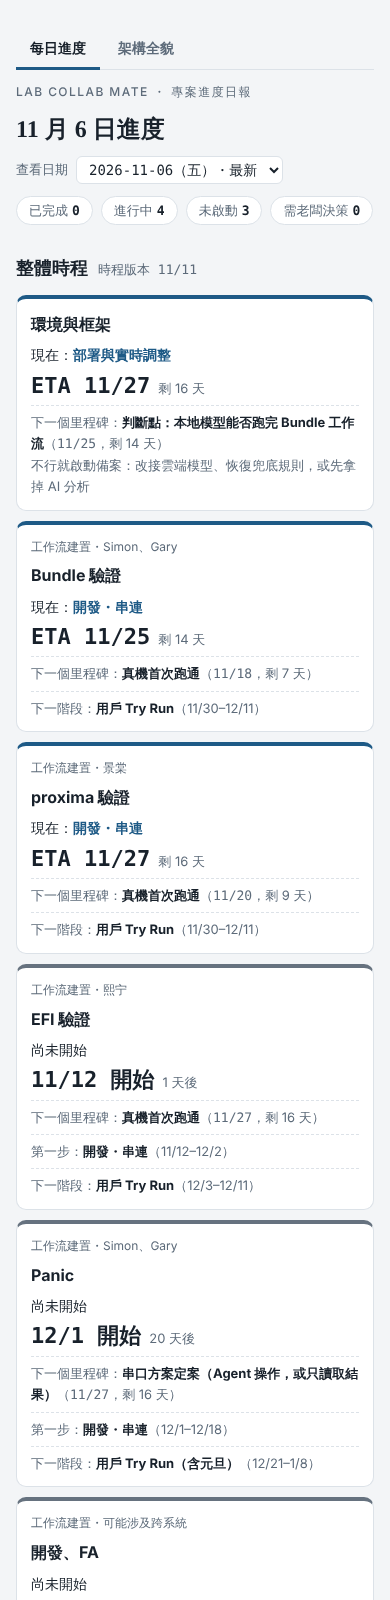
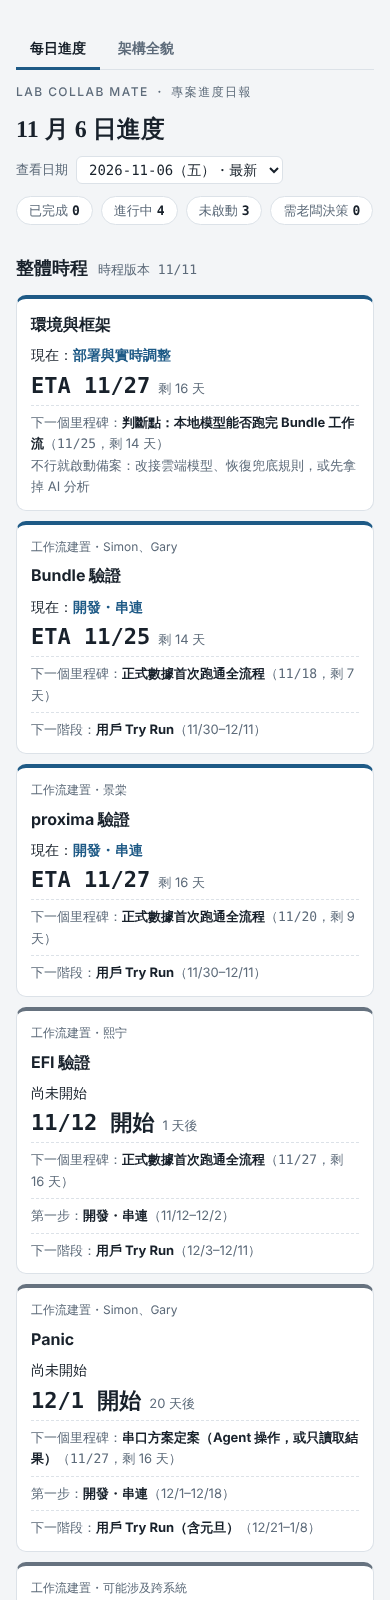
[2026-11-11_dashboard-schedule-and-arch-tab] 里程碑改名為「正式數據首次跑通全流程」
Claude-Session: https://claude.ai/code/session_01HY2PekBDQgaxvznQLxGhAu

Changed region(s): [[0.0615, 0.4062, 0.9538, 1.0], [0.6769, 0.6875, 0.8, 0.7188], [0.6769, 0.5312, 0.7385, 0.5625]]

diff --git a/public/index.html b/public/index.html
@@ -221,7 +221,7 @@ footer{font-size:12px;color:var(--muted);border-top:1px solid var(--line);paddin
     <h2 id="s0">整體時程 <span class="count" id="c0"></span></h2>
     <div class="tracks" id="tracks"></div>
     <p class="tbdline" id="tbdline"></p>
-    <div class="gwrap"><div class="glegend"><span><i style="background:var(--accent)"></i>開發・串連・設計</span><span><i style="background:var(--ok)"></i>用戶 Try Run</span><span><i style="background:var(--idle-soft);border:1px solid var(--idle)"></i>已過</span><span><i style="border:1px dashed var(--idle)"></i>時程待定</span><span><i class="k" style="border-radius:50%;box-shadow:inset 0 0 0 2px var(--fg)"></i>真機首次跑通</span><span><i class="k" style="border-radius:50%;background:var(--fg)"></i>連續 5 次穩定跑通</span><span><i class="k" style="background:var(--warn);transform:rotate(45deg) scale(.85)"></i>判斷點／定案</span><span><i class="k" style="background:var(--ok);transform:rotate(45deg) scale(.85)"></i>正式上線（用戶驗收）</span><span style="color:var(--bad)">｜今天</span></div><div class="gantt" id="gantt"></div></div>
+    <div class="gwrap"><div class="glegend"><span><i style="background:var(--accent)"></i>開發・串連・設計</span><span><i style="background:var(--ok)"></i>用戶 Try Run</span><span><i style="background:var(--idle-soft);border:1px solid var(--idle)"></i>已過</span><span><i style="border:1px dashed var(--idle)"></i>時程待定</span><span><i class="k" style="border-radius:50%;box-shadow:inset 0 0 0 2px var(--fg)"></i>正式數據首次跑通全流程</span><span><i class="k" style="border-radius:50%;background:var(--fg)"></i>連續 5 次穩定跑通</span><span><i class="k" style="background:var(--warn);transform:rotate(45deg) scale(.85)"></i>判斷點／定案</span><span><i class="k" style="background:var(--ok);transform:rotate(45deg) scale(.85)"></i>正式上線（用戶驗收）</span><span style="color:var(--bad)">｜今天</span></div><div class="gantt" id="gantt"></div></div>
   </section>
 
   <section aria-labelledby="s1">
@@ -255,7 +255,7 @@ footer{font-size:12px;color:var(--muted);border-top:1px solid var(--line);paddin
 
 <script>
 /* 整體時程。s／e＝開始／結束日；s:null＝整段待定。row:"one"＝所有步驟畫在同一列，"each"＝每步一列。
-   kind：build＝開發・串連・設計，try＝用戶 Try Run。ms＝里程碑 [日期, 說明, 類型]：first＝真機首次跑通，stable＝連續 5 次穩定跑通，gate＝判斷點／定案，live＝正式上線 */
+   kind：build＝開發・串連・設計，try＝用戶 Try Run。ms＝里程碑 [日期, 說明, 類型]：first＝正式數據首次跑通全流程，stable＝連續 5 次穩定跑通，gate＝判斷點／定案，live＝正式上線 */
 const PLAN = {
   updated:"2026-11-11", from:"2026-10-26", weeks:12,
   rule:"進 Try Run 的標準：真機連續 5 次穩定跑通、失敗時有看得懂的錯誤訊息、最後的 AI 分析結果經工程師確認可用。",
@@ -271,19 +271,19 @@ const PLAN = {
     {name:"Bundle 驗證", label:"Bundle 驗證", sub:"Simon、Gary", group:1, row:"one",
      steps:[{n:"開發・串連", short:"", s:"2026-11-09", e:"2026-11-25", kind:"build"},
             {n:"用戶 Try Run", short:"Try Run", s:"2026-11-30", e:"2026-12-11", kind:"try"}],
-     ms:[["2026-11-18","真機首次跑通","first"],["2026-11-25","連續 5 次穩定跑通","stable"],["2026-12-11","正式上線","live"]]},
+     ms:[["2026-11-18","正式數據首次跑通全流程","first"],["2026-11-25","連續 5 次穩定跑通","stable"],["2026-12-11","正式上線","live"]]},
     {name:"proxima 驗證", label:"proxima 驗證", sub:"景棠", group:1, row:"one",
      steps:[{n:"開發・串連", short:"", s:"2026-11-09", e:"2026-11-27", kind:"build"},
             {n:"用戶 Try Run", short:"Try Run", s:"2026-11-30", e:"2026-12-11", kind:"try"}],
-     ms:[["2026-11-20","真機首次跑通","first"],["2026-11-27","連續 5 次穩定跑通","stable"],["2026-12-11","正式上線","live"]]},
+     ms:[["2026-11-20","正式數據首次跑通全流程","first"],["2026-11-27","連續 5 次穩定跑通","stable"],["2026-12-11","正式上線","live"]]},
     {name:"EFI 驗證", label:"EFI 驗證", sub:"熙宁", group:1, row:"one",
      steps:[{n:"開發・串連", short:"", s:"2026-11-12", e:"2026-12-02", kind:"build"},
             {n:"用戶 Try Run", short:"Try Run", s:"2026-12-03", e:"2026-12-11", kind:"try"}],
-     ms:[["2026-11-27","真機首次跑通","first"],["2026-12-02","連續 5 次穩定跑通","stable"],["2026-12-11","正式上線","live"]]},
+     ms:[["2026-11-27","正式數據首次跑通全流程","first"],["2026-12-02","連續 5 次穩定跑通","stable"],["2026-12-11","正式上線","live"]]},
     {name:"Panic", label:"Panic", sub:"Simon、Gary", group:1, row:"one",
      steps:[{n:"開發・串連", short:"", s:"2026-12-01", e:"2026-12-18", kind:"build"},
             {n:"用戶 Try Run（含元旦）", short:"Try Run", s:"2026-12-21", e:"2027-01-08", kind:"try"}],
-     ms:[["2026-11-27","串口方案定案（Agent 操作，或只讀取結果）","gate"],["2026-12-11","真機首次跑通","first"],["2026-12-18","連續 5 次穩定跑通","stable"],["2027-01-08","正式上線","live"]]},
+     ms:[["2026-11-27","串口方案定案（Agent 操作，或只讀取結果）","gate"],["2026-12-11","正式數據首次跑通全流程","first"],["2026-12-18","連續 5 次穩定跑通","stable"],["2027-01-08","正式上線","live"]]},
     {name:"開發、FA", label:"開發、FA", sub:"可能涉及跨系統", group:1, row:"one",
      steps:[{n:"技術調研（跨哪些系統、連哪種工站）", short:"技術調研", s:"2026-12-14", e:"2026-12-25", kind:"build"}],
      ms:[["2027-01-08","給出開發與 FA 的時程","gate"]]},
@@ -414,7 +414,7 @@ const issueHTML = (x, ws) => `<div class="issue ${x.type}"><span class="k">${TAG
 const dn = s => Date.UTC(+s.slice(0,4), +s.slice(5,7)-1, +s.slice(8,10)) / 864e5;
 const mdd = s => `${+s.slice(5,7)}/${+s.slice(8,10)}`;
 const rng = x => x.s ? (x.e ? `${mdd(x.s)}–${mdd(x.e)}` : `${mdd(x.s)} 起・結束待定`) : "時程待定";
-const MSK = {first:"真機首次跑通", stable:"連續 5 次穩定跑通", gate:"判斷點／定案", live:"正式上線"};
+const MSK = {first:"正式數據首次跑通全流程", stable:"連續 5 次穩定跑通", gate:"判斷點／定案", live:"正式上線"};
 function renderPlan(){
   const t0 = new Date(), today = Date.UTC(t0.getFullYear(), t0.getMonth(), t0.getDate()) / 864e5;
   const A = dn(PLAN.from), span = PLAN.weeks * 7, pct = d => ((d - A) / span * 100).toFixed(3) + "%";

diff --git a/work/2026-11-11_dashboard-schedule-and-arch-tab/STATUS.md b/work/2026-11-11_dashboard-schedule-and-arch-tab/STATUS.md
@@ -30,13 +30,14 @@
 | 日期 | 決策 |
 |---|---|
 | 11-11 | 時程改用 Claude 建議版（下表），取代使用者最初版本；工程師的實際估計之後再修正 |
-| 11-11 | 工程師邊開發工具邊串連，所以不分「工具開發」「串連測試」兩段，改用兩個里程碑：① 真機首次跑通、② 連續 5 次穩定跑通 |
+| 11-11 | 工程師邊開發工具邊串連，所以不分「工具開發」「串連測試」兩段，改用兩個里程碑：① 正式數據首次跑通全流程、② 連續 5 次穩定跑通 |
 | 11-11 | 進 Try Run 的標準：真機連續 5 次穩定跑通、失敗時有看得懂的錯誤訊息、AI 分析結果經工程師確認可用 |
+| 11-11 | 里程碑①用詞定為「正式數據首次跑通全流程」 |
 | 11-11 | 只排工作日；原版 11/28、12/12、12/26 落在週末，已修正 |
 
 ## 目前頁面上的時程（Claude 建議版）
 
-| 線 | 開發・串連 | ① 首次跑通 | ② 連續 5 次穩定跑通 | Try Run | 上線 |
+| 線 | 開發・串連 | ① 正式數據首次跑通全流程 | ② 連續 5 次穩定跑通 | Try Run | 上線 |
 |---|---|---|---|---|---|
 | 環境與框架 | 10/26–11/27；11/25 判斷點（本地模型能否跑完 Bundle，不行就啟動備案） | | | | |
 | Bundle 驗證（Simon、Gary） | 11/9–11/25 | 11/18 | 11/25 | 11/30–12/11 | 12/11 |
@@ -77,9 +78,12 @@
 
 ## 過程紀錄（由新到舊）
 
+### 2026-11-11（第三段）
+- 使用者要求里程碑①改名為「正式數據首次跑通全流程」，頁面與紀錄同步修改。
+
 ### 2026-11-11（第二段）
-- 使用者請 Claude 代為規劃時程，採用建議版；並指出工程師是邊開發邊串連，改用「真機首次跑通／連續 5 次穩定跑通」兩個里程碑，用詞依使用者要求改直接。
-- 頁面：驗證拆成 Bundle、proxima、EFI 三列；甘特圖加里程碑標記（○ 首次跑通、● 穩定跑通、◆ 判斷點／定案、◆ 上線）；摘要卡加「下一個里程碑」；顯示進 Try Run 標準。
+- 使用者請 Claude 代為規劃時程，採用建議版；並指出工程師是邊開發邊串連，改用「正式數據首次跑通全流程／連續 5 次穩定跑通」兩個里程碑，用詞依使用者要求改直接。
+- 頁面：驗證拆成 Bundle、proxima、EFI 三列；甘特圖加里程碑標記（○ 正式數據首次跑通全流程、● 穩定跑通、◆ 判斷點／定案、◆ 上線）；摘要卡加「下一個里程碑」；顯示進 Try Run 標準。
 
 ### 2026-11-11
 - 使用者提供整體時程，並要求新增架構全貌分頁（只要三張全貌圖）。
